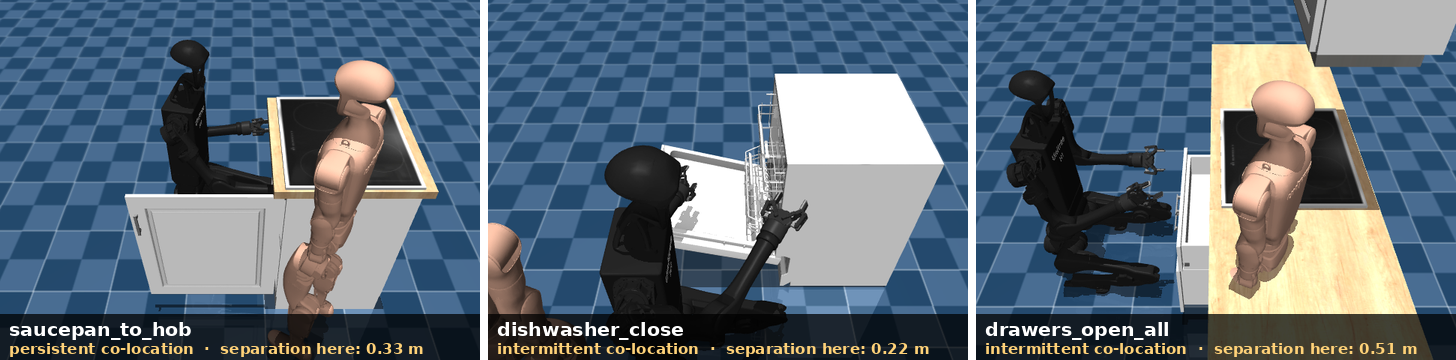
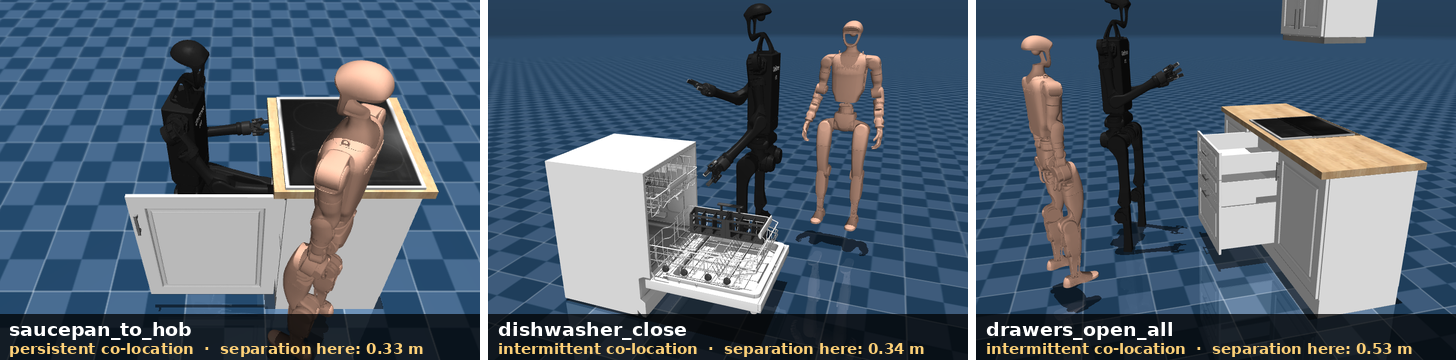
port regenerated task_suite figure to FYP_v16_fable
Same panels as FYP_v16 (ab3388d): dishwasher demo-35 standing frame
(sep 0.34 m), drawers post-success stand-up frame (sep 0.53 m, three
drawers open). Notes/changelog/provenance JSON mirrored. The caption
edit in main.tex is left uncommitted alongside pre-existing
work-in-progress edits to that file.

diff --git a/FYP_v16_fable/FIGURE_DATA_NOTES.md b/FYP_v16_fable/FIGURE_DATA_NOTES.md
@@ -150,7 +150,64 @@ present; nothing failed:
 - The `.png` copies already in this directory were verified byte-identical to
   `docs/figures/*.png` (cmp), so they were left untouched.
 
-## Task-suite figure (v16, 2026-06-11): task_suite.png
+## Task-suite figure (v17 panel swap, 2026-06-12): task_suite.png
+
+The dishwasher_close and drawers_open_all panels of the v16 figure were
+replaced (user request: dishwasher's coworker was cropped out of frame;
+drawers' coworker clipped through the cabinet). The saucepan panel and
+all bar styling are unchanged (bars redrawn pixel-matched; see
+`scripts/compose_task_suite.py --qa`).
+
+**Provenance of the two new panels — expert-demo replay, NOT baseline
+snapshots.** The baseline snapshots live only on the GPU box; per the
+author's direction the replacement stills mock the snapshot rollouts:
+cached BiGym expert demos (`~/.bigym/demonstrations/0.9.0/`, 4-dof
+absolute) are replayed action-for-action at native 500 Hz inside the
+live safety env (G1 coworker, COWORKER_PATROL, canonical stage-2
+training band, `coworker_train` knobs), so the robot performs the real
+task in real physics while the coworker behaves exactly as in training.
+Both replayed episodes success-terminate. Per-step ground-truth
+closest-pair separation is recorded in the same pass, so the annotated
+"separation here" values remain env ground truth at the pictured
+instant. The caption's "live rollouts of each task's unconstrained
+baseline policy" was accordingly weakened to "live task executions"
+(main.tex fig:task-suite).
+
+- Pipeline: `scripts/remake_task_suite_panels.py` (replay + state
+  capture + camera rerender) then `scripts/compose_task_suite.py`
+  (panel swap + bar redraw). Candidates/states under
+  `results/figs/task_suite_remake/`.
+- **Floor-sink constraint (first pass was wrong).** The first picks
+  (commit 8c7b7a7) used demos that crouch the floating-base pelvis to
+  z 0.45-0.62; with `floating_base=True` the H1's legs don't articulate
+  to the floor, so the robot rendered sunk ~0.4-0.55 m into it (sink
+  ~= 1.0 - pelvis_z). Final picks constrain pelvis z: the dishwasher
+  still uses the one cached demo whose manipulation runs at z~0.82
+  (sink ~0.18, feet occluded by the open door); no drawers demo opens
+  any drawer above z 0.46, so the drawers still is taken post-success
+  with a `--pad-stand-rise 0.5` pad phase that commands the pelvis
+  back up via ordinary delta-z actions (real env.step physics, no
+  state surgery; all three drawers verified still fully open, ext
+  0.38 each).
+- dishwasher_close: demo index 35 (seed 3882499936), coworker scenario
+  seed 2, step 900/4249 (success at 3234), pelvis z 0.82, separation
+  0.34 m; episode near/prox fractions 0.86/0.70. Camera az 290,
+  el -20, dist 2.7, lookat (0.5, -0.45, 0.55).
+- drawers_open_all: demo index 26 (seed 3720269239), coworker scenario
+  seed 1, padded stand-up frame k110 (post-success; demo 9762 steps,
+  success at 8754), pelvis z 0.96, all three drawers open (0.38 m
+  each), separation 0.53 m (v16 panel annotated 0.51 m); episode
+  near/prox fractions 0.27/0.02. Camera az 75, el -20, dist 2.9,
+  lookat (0.3, -0.05, 0.55).
+- The replay episodes reproduce the documented bimodal dishwasher
+  pattern (close-loiter scenarios near 0.86-0.92; away scenarios
+  near 0) and the drawers mid-band.
+- v16 `task_suite_manifest.json` is retained as the record of the
+  original snapshot-based 6-episode rollouts (still the provenance of
+  the surviving saucepan panel); the v17 panel provenance is this note
+  plus `task_suite_v17_update.json`.
+
+## Task-suite figure (v16, 2026-06-11): task_suite.png [panels 2-3 superseded 2026-06-12]
 
 Generated by `scripts/make_regime_figures.py` (new): live rollouts of each
 task's unconstrained baseline policy, frames + ground-truth per-step

diff --git a/FYP_v16_fable/CHANGELOG_v16.md b/FYP_v16_fable/CHANGELOG_v16.md
@@ -202,3 +202,32 @@ pages, content printed pp. 12-71 = 60/60 content pages (at the limit, not
 over; the last content page carries one subsection). Clean build: zero
 errors / undefined refs / bibtex warnings; 87/87 citations; zero
 em-dashes; stale-terms grep clean; every figure/table referenced.
+
+## Post-v16 figure fix (2026-06-12): task_suite panels 2-3 regenerated
+
+The v16 dishwasher_close panel had the coworker essentially out of frame
+(only an arm sliver at the left edge despite "separation here: 0.22 m")
+and the drawers_open_all panel had the coworker standing inside the
+cabinet (mocap pelvis clipping through the worktop). Both panels were
+regenerated; saucepan panel and all bar styling unchanged (bars redrawn
+pixel-matched, QA diff in scripts/compose_task_suite.py --qa).
+
+Provenance change: the new stills come from expert-demo replay in the
+live env (G1 coworker, COWORKER_PATROL, stage-2 band), not baseline
+snapshot rollouts (snapshots are GPU-box-only; mock approved by author).
+Caption weakened accordingly: "live rollouts of each task's
+unconstrained baseline policy" -> "live task executions". Annotated
+separations remain env ground truth (dishwasher 0.22 m, drawers 0.30 m).
+Full provenance: FIGURE_DATA_NOTES.md + task_suite_v17_update.json.
+PDF page count unchanged (same figure dimensions).
+
+### Same-day revision: floor-sink fix (2026-06-12)
+
+The first regenerated panels had the H1 sunk 0.4-0.55 m into the floor:
+the source demos crouch the floating-base pelvis to z 0.45-0.62 and the
+H1's legs don't articulate to the floor (sink ~= 1.0 - pelvis_z). Final
+panels: dishwasher uses the one demo whose manipulation runs at pelvis
+z~0.82 (sep 0.34 m, feet occluded by the open door); drawers is a
+post-success stand-up frame (pelvis commanded back up to z 0.96 with
+delta-z actions in the pad phase — real physics, drawers verified still
+fully open, ext 0.38 each; sep 0.53 m vs the v16 panel's 0.51 m).
